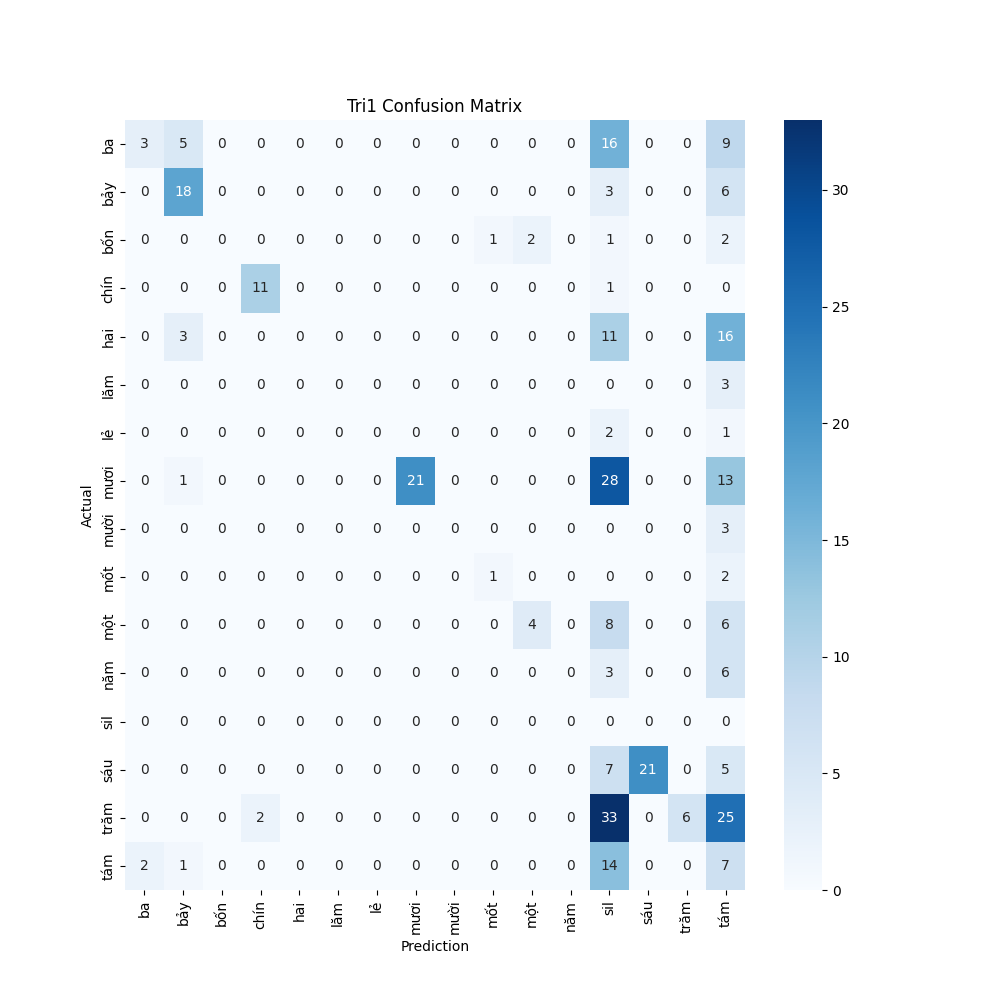
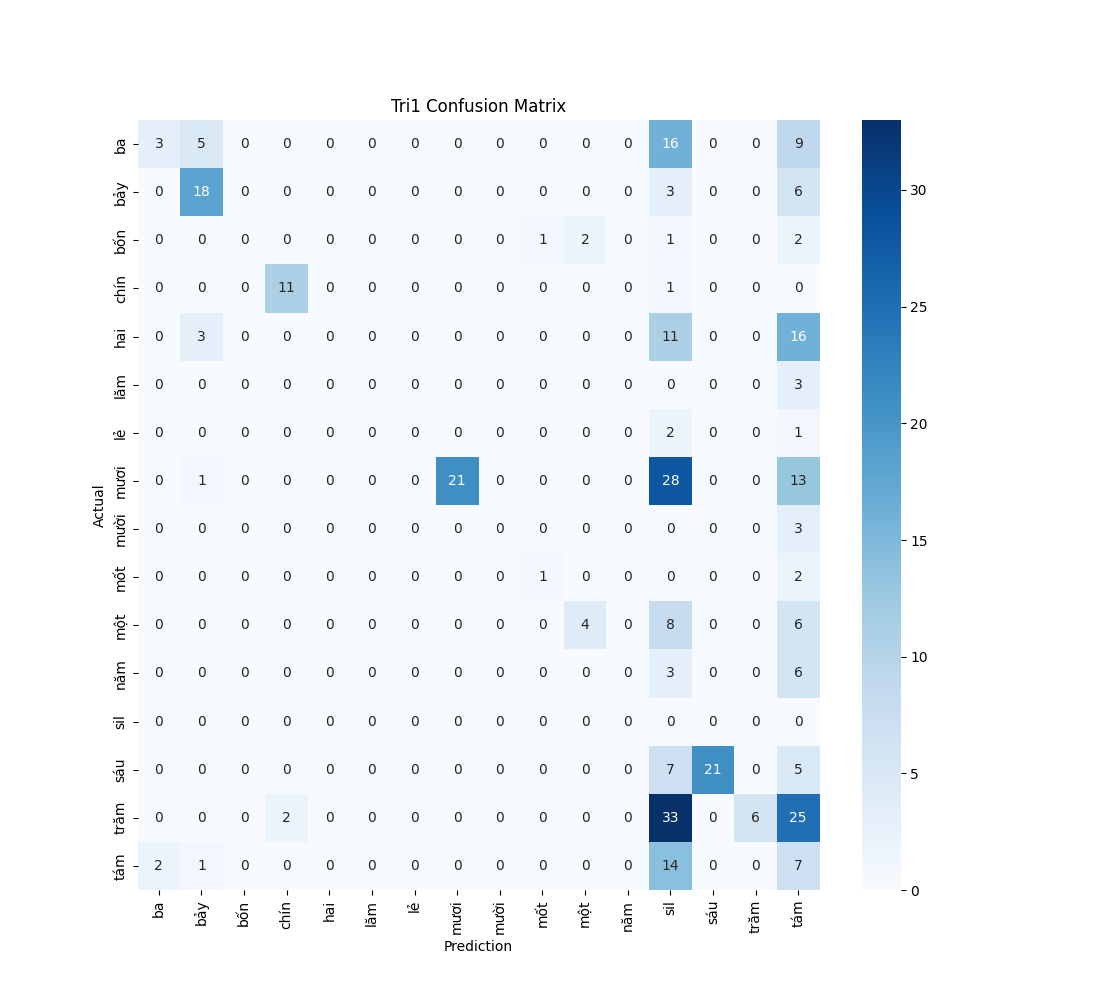
log train results 17/05/2022 11:35am

diff --git a/custom/confusion_matrix.py b/custom/confusion_matrix.py
@@ -6,7 +6,7 @@ import matplotlib.pyplot as plt
 transcript_to_telex = pd.read_csv("TranscriptToName.csv")
 
 def create_confusion_matrix(type):
-    plt.figure(figsize = (10,10))
+    plt.figure(figsize = (11,10))
     with open(f"/home/cs398/kaldi/egs/kaldi-fuv/outputs/out_{type}.txt", "r") as f:
         results = f.readlines()
     prediction = []
